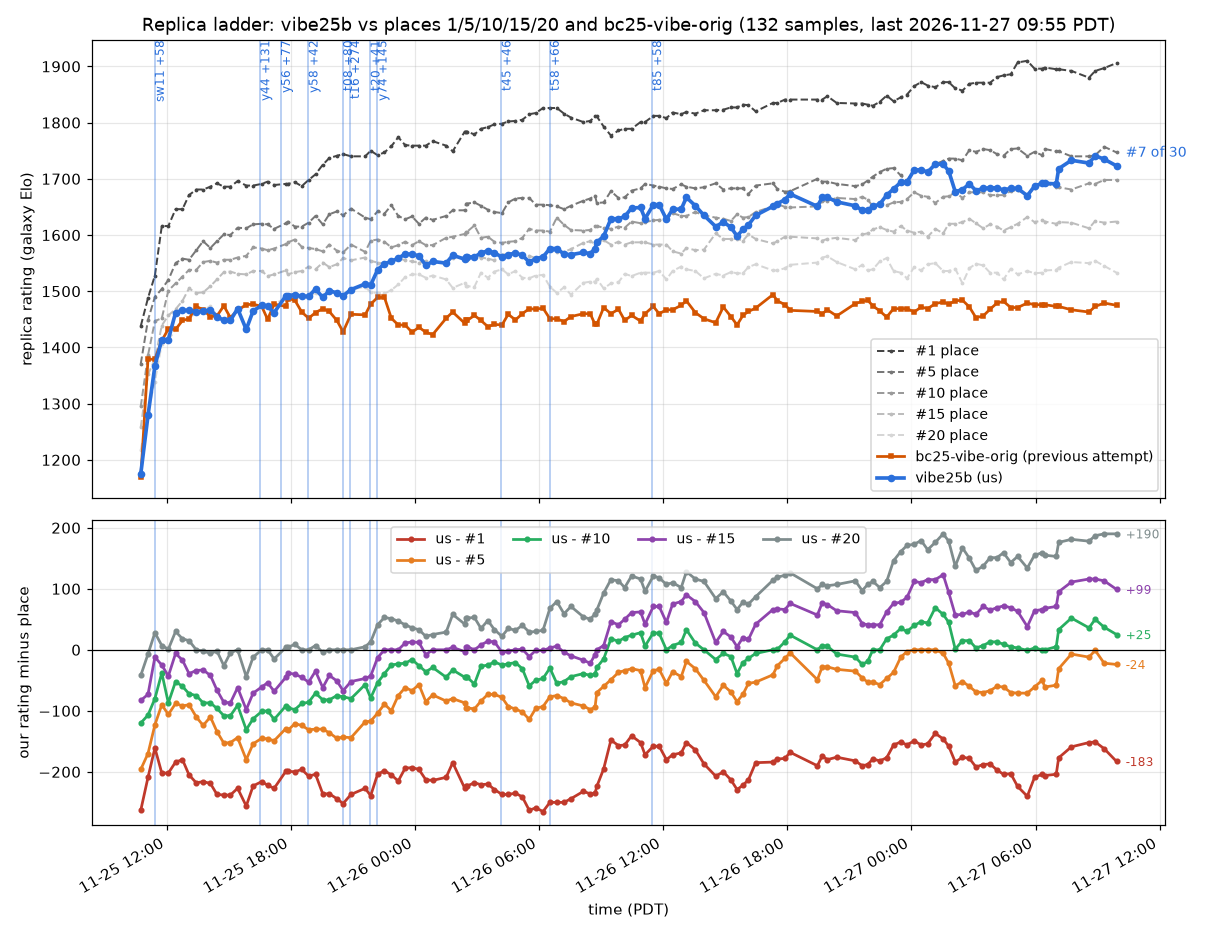
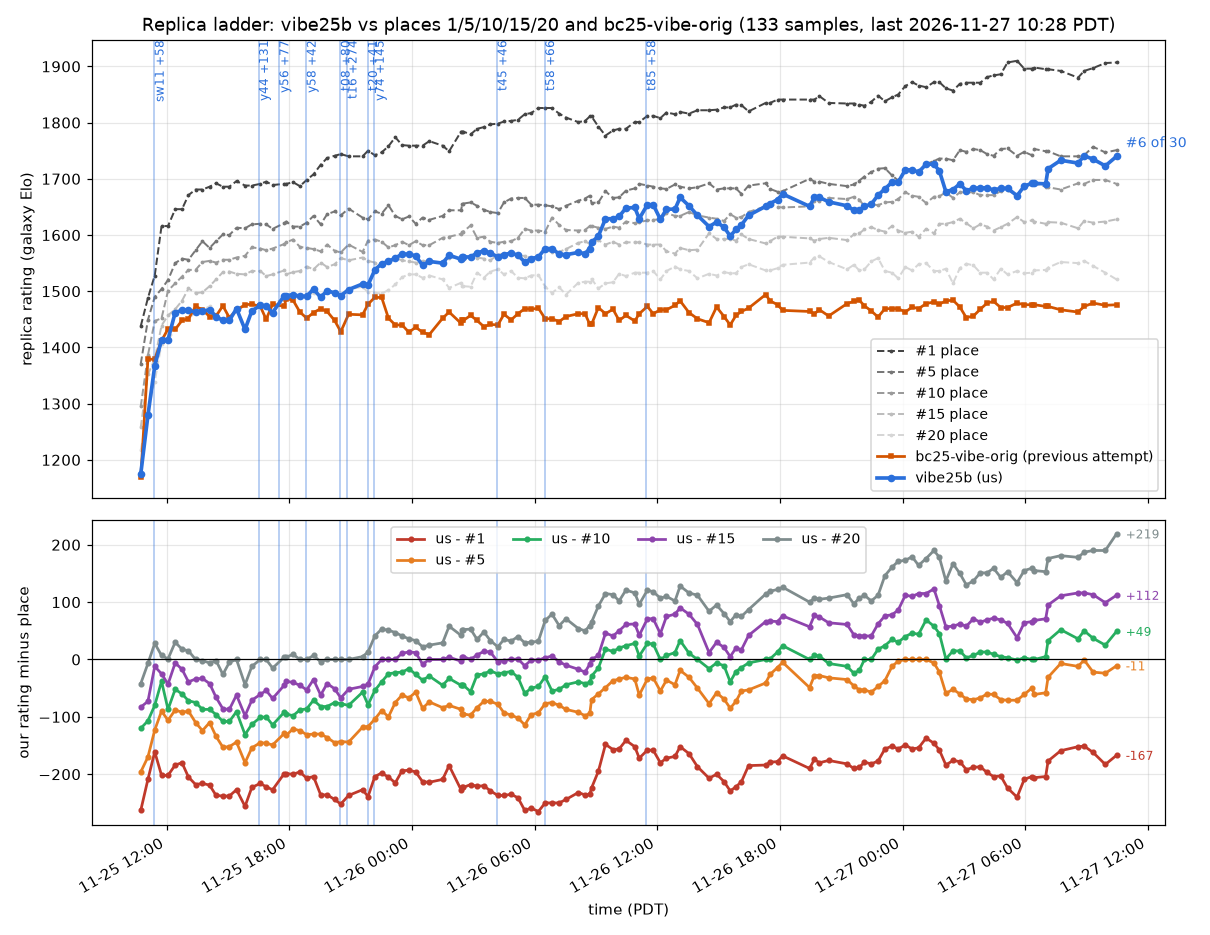
prod: replica sample 1740 at #6; refill candidates early
Claude-Session: https://claude.ai/code/session_01SzziPSCWtjsjju9cnThDf5

diff --git a/progress/local-elo.md b/progress/local-elo.md
@@ -1,55 +1,55 @@
 # Local tournament Elo
 
-Bradley-Terry ratings of our own bots in the local tournament (`tools/tourney.py`), all 154777 games in one fit as of 2026-11-27 10:19 PDT, so every point is on the same scale; earlier champions are shown at their current rating, and "Gain" is the rating over the champion it replaced. `tools/tourney.py rank` rewrites this table; `tools/tourney.py chart` also redraws the chart.
+Bradley-Terry ratings of our own bots in the local tournament (`tools/tourney.py`), all 155877 games in one fit as of 2026-11-27 10:33 PDT, so every point is on the same scale; earlier champions are shown at their current rating, and "Gain" is the rating over the champion it replaced. `tools/tourney.py rank` rewrites this table; `tools/tourney.py chart` also redraws the chart.
 
 ![local elo](local-elo.png)
 
 | Champion from (PDT) | Bot | Change on base | Submission | Rating +- SE | Gain | Games |
 |---|---|---|---:|---:|---:|---:|
-| 2026-11-25 08:28 | v01 | foundation bot |  | 165 +- 18 |  | 435 |
-| 2026-11-25 08:39 | v02 | nav wall-follow fix + bytecode guards on v01 | #6 | 230 +- 13 | +65 | 801 |
-| 2026-11-25 09:01 | y02 | paint-heavy tower mix + paint towers upgraded first on v02 | #7 | 289 +- 11 | +59 | 1080 |
-| 2026-11-25 09:49 | y06 | 3 opening soldiers instead of 2 on y02 | #35 | 310 +- 13 | +21 | 700 |
-| 2026-11-25 10:09 | sw06 | no moppers before r80; a third of spawns moppers after (field study 1) on y02 | #36 | 367 +- 12 | +79 | 863 |
-| 2026-11-25 11:04 | y11 | mid-game mix 3 moppers per 6 (soldier mopper splasher mopper soldier mopper) on sw06 | #37 | 400 +- 14 | +33 | 655 |
-| 2026-11-25 11:24 | sw11 | at most 1 helper soldier per ruin (more ruins claimed in parallel) on y11 | #38 | 458 +- 11 | +58 | 1159 |
-| 2026-11-25 12:24 | y17 | sw11 + moppers prefer enemies within r2 25 of our towers (sw12) on sw11 | #39 | 476 +- 12 | +18 | 871 |
-| 2026-11-25 12:44 | y19 | sw11 with soldiers joining an occupied ruin only when adjacent (r2<=2) on y17 | #40 | 511 +- 14 | +35 | 678 |
-| 2026-11-25 13:04 | y24 | y17 with mopper defence widened (DEFEND_R2 36 / bonus 80) on y19 | #41 | 546 +- 13 | +35 | 679 |
-| 2026-11-25 13:24 | y25 | y19 (adjacent-only ruin helping) + y17 tower-defending moppers on y24 | #42 | 555 +- 12 | +9 | 898 |
-| 2026-11-25 13:44 | sw16 | y25 + soldier siege: with no ruin and paint>=80 kite a known enemy tower within r2 64 on y25 | #43 | 580 +- 11 | +24 | 976 |
-| 2026-11-25 14:04 | sw17 | y28 (siege from 50 paint r2 100) + splasher siege (towers weigh 40; walk to known tower within r2 100 at paint>=100) on sw16 | #44 | 612 +- 10 | +33 | 1110 |
-| 2026-11-25 14:44 | y30 | y28 with soldier siege from 30 paint within r2 144 (no splasher siege) on sw17 | #45 | 629 +- 7 | +17 | 2377 |
-| 2026-11-25 16:30 | y44 | study 3 tactic 3 (enemy refill policy): return at 50% paint (soldier 100/splasher 100/mopper 40) + end-of-turn top-up from any adjacent ally tower on y30 | #46 | 760 +- 8 | +131 | 2250 |
-| 2026-11-25 17:30 | y56 | study 3 tactic 4 (tower churn): a drained L1 money tower with intact pattern and an ally adjacent disintegrates at >=2000 chips; adjacent robots re-complete it for a fresh 500 paint on y44 | #47 | 837 +- 10 | +77 | 1320 |
-| 2026-11-25 18:50 | y58 | study 3 tactic 2 (early soldiers paint patterns not coverage): exploring soldiers paint no coverage before r50 on y56 | #48 | 879 +- 11 | +42 | 997 |
-| 2026-11-25 19:30 | t04 | t02 (no coverage painting before r80) + t03 (units wait beside drained money towers and repair their pattern so churn fires; study 3 tactics 2 and 4) on y58 | #49 | 912 +- 11 | +33 | 1065 |
-| 2026-11-25 20:30 | t08 | study 4 2.2 (contested ruins): soldiers skip a ruin with enemy paint in its visible 5x5 (bad for 50 rounds) on t04 | #50 | 992 +- 13 | +80 | 775 |
-| 2026-11-25 20:50 | t16 | t12 (t08 + study 4 2.1 spawn freeze 8 rounds in 20 below 1000+cost) + study 4 2.4 money-first: builds money until 8 towers then paint while paint towers < n/5; paint first only if none (all towers known) on t08 | #51 | 1266 +- 12 | +274 | 1213 |
-| 2026-11-25 21:50 | t20 | study 4 2.3: splashers weight enemy towers 30 (was 12) in the splash score on t16 | #52 | 1308 +- 15 | +41 | 587 |
-| 2026-11-25 22:10 | y74 | unit audit (owner prompt #15): splash-grid bug fix (enemy tiles never scored) + moppers stop once enemy paint is in mop reach; built on t16 on t20 | #53 | 1452 +- 10 | +145 | 1255 |
-| 2026-11-25 23:10 | t25 | unit audit + top teams' unit mix (616 S / 662 X / 701 M): after r80 paint towers cycle soldier-splasher-mopper; money towers keep S M X M S M on y74 | #54 | 1488 +- 13 | +36 | 680 |
-| 2026-11-25 23:30 | t27 | top teams' splasher-heavy late mix pushed further: paint towers cycle soldier-splasher-splasher-mopper after r80 on t25 | #55 | 1511 +- 9 | +23 | 1554 |
-| 2026-11-26 00:30 | y95 | upgrade spare 1200 (was 800): chips stay for new towers longer on t27 | #56 | 1546 +- 9 | +35 | 1822 |
-| 2026-11-26 02:01 | t36 | late SRPs (study 4 2.6 / study 3 tactic 7): soldiers without a ruin build SRPs on the x%4==2 y%4==2 lattice from r100 with chips>=1000; splashers avoid repainting SRP secondary tiles on y95 | #57 | 1583 +- 11 | +37 | 977 |
-| 2026-11-26 02:50 | y110 | money towers upgrade only with 2500 chips beyond the cost+spare (was 1000): chips go to new towers and SRPs on t36 | #58 | 1614 +- 10 | +31 | 1260 |
-| 2026-11-26 03:30 | t42 | study 4 3.1 recovery: with every tower known and no money tower left the next ruin is a money tower on y110 | #59 | 1629 +- 10 | +15 | 1332 |
-| 2026-11-26 04:10 | t45 | study 3 tactic 1: after r40 towers spawn only with 1000 chips beyond the unit's cost (no 600-chip window) on t42 | #60 | 1675 +- 10 | +46 | 1226 |
-| 2026-11-26 04:50 | t47 | study 3 tactic 5: a mopper due in the cycle spawns even below the 1000 reserve when an enemy robot is within d2 20 of the tower on t45 | #61 | 1704 +- 7 | +29 | 2398 |
-| 2026-11-26 06:30 | t58 | study 5 2.3: a splasher that has not splashed for 8 rounds (while able to) explores instead of chasing the nearest non-ally tile on t47 | #62 | 1770 +- 11 | +66 | 1087 |
-| 2026-11-26 07:10 | t61 | study 5 2.1 (softened): money towers for builds 1-5; then one more paint tower per 4 towers on t58 | #63 | 1806 +- 11 | +36 | 938 |
-| 2026-11-26 07:30 | y155 | study 5 2.1 tuned: money towers for builds 1-6; then one more paint tower per 4 towers on t61 | #64 | 1838 +- 9 | +32 | 1615 |
-| 2026-11-26 08:27 | t70 | y155 + splashers weight enemy towers 30 (t68) + 2000+ chips makes the next tower a paint tower (y159) on y155 | #65 | 1865 +- 7 | +27 | 2530 |
-| 2026-11-26 09:47 | t74 | moppers weight enemy paint near ruins 40 (study 6 2.1c) on t70 | #66 | 1884 +- 8 | +19 | 2200 |
-| 2026-11-26 10:47 | y170 | soldiers make the next tower a paint tower at 1500+ chips (t63 tuning; was 2000) on t74 | #67 | 1880 +- 7 | -4 | 2823 |
-| 2026-11-26 11:27 | t85 | study 6 2.2 ruin denial from where the soldier stands: a soldier with no ruin paints empty tiles of a ruin the enemy is building; without walking to it on y170 | #68 | 1938 +- 7 | +58 | 2556 |
-| 2026-11-26 12:47 | t91 | study 7 2.5: moppers ignore ruins under enemy towers when weighting ruin paint on t85 | #69 | 1950 +- 5 | +12 | 5663 |
-| 2026-11-26 13:27 | y195 | study 7 2.1a: explore unseen tiles first; up to 16 random draws on t91 | #70 | 1963 +- 9 | +14 | 1349 |
-| 2026-11-26 14:12 | y197 | ruin denial stops at 2 of our tiles (tuning of study 6 2.2) on y195 | #71 | 1980 +- 7 | +16 | 2235 |
-| 2026-11-26 15:27 | y211 | study 7 2.1a tuned: up to 128 random draws for an unseen explore target (was 16) on y197 | #72 | 1983 +- 6 | +3 | 4141 |
-| 2026-11-26 17:47 | y221 | study 8 2.2 (paint the first tower's pattern on the way in; a second soldier on the first ruin) + explore timeout 90; first champion through the confirmation stage (owner #46) on y211 | #73 | 2018 +- 5 | +36 | 6990 |
-| 2026-11-26 19:34 | t111 | splashers attack enemy paint/money towers from a stand-off tile outside their range (study 8 2.4) on y221 | #74 | 2032 +- 4 | +13 | 7551 |
-| 2026-11-26 23:27 | t118 | study 9 2.1b: a soldier on a blocked pattern with no own mopper or splasher in view gives up after 5 turns (was 25); confirmed +71 +-29 in 153 fresh games on t111 | #75 | 2067 +- 5 | +35 | 7081 |
-| 2026-11-27 01:07 | t122 | study 9 2.4: paint-tower dry flags expire after 10 rounds (was 40) and a flagged tower in sight is re-sensed; confirmed +6 +-19 in 378 fresh games; +16 overall on t118 | #76 | 2081 +- 4 | +14 | 10204 |
-| 2026-11-27 06:10 | t135 | study 10 2.6d: a soldier with no other soldier in view skips the 25-paint pattern mark (the top teams never mark); confirmed +9 +-22 in 262 fresh games; +14 overall on t122 | #77 | 2077 +- 6 | -4 | 5817 |
-| 2026-11-27 08:28 | t140 | study 11 2.1: free single marks (rc.mark on the 5x5 outer ring) replace the 25-paint pattern mark; marks re-read beside the ruin; confirmed +40 +-23 in 251 fresh games; +30 overall on t135 | #78 | 2109 +- 7 | +32 | 3345 |
+| 2026-11-25 08:28 | v01 | foundation bot |  | 160 +- 18 |  | 435 |
+| 2026-11-25 08:39 | v02 | nav wall-follow fix + bytecode guards on v01 | #6 | 225 +- 13 | +65 | 801 |
+| 2026-11-25 09:01 | y02 | paint-heavy tower mix + paint towers upgraded first on v02 | #7 | 284 +- 11 | +59 | 1080 |
+| 2026-11-25 09:49 | y06 | 3 opening soldiers instead of 2 on y02 | #35 | 305 +- 13 | +21 | 700 |
+| 2026-11-25 10:09 | sw06 | no moppers before r80; a third of spawns moppers after (field study 1) on y02 | #36 | 363 +- 12 | +79 | 863 |
+| 2026-11-25 11:04 | y11 | mid-game mix 3 moppers per 6 (soldier mopper splasher mopper soldier mopper) on sw06 | #37 | 396 +- 14 | +33 | 655 |
+| 2026-11-25 11:24 | sw11 | at most 1 helper soldier per ruin (more ruins claimed in parallel) on y11 | #38 | 454 +- 11 | +58 | 1159 |
+| 2026-11-25 12:24 | y17 | sw11 + moppers prefer enemies within r2 25 of our towers (sw12) on sw11 | #39 | 472 +- 12 | +18 | 871 |
+| 2026-11-25 12:44 | y19 | sw11 with soldiers joining an occupied ruin only when adjacent (r2<=2) on y17 | #40 | 507 +- 14 | +35 | 678 |
+| 2026-11-25 13:04 | y24 | y17 with mopper defence widened (DEFEND_R2 36 / bonus 80) on y19 | #41 | 542 +- 13 | +35 | 679 |
+| 2026-11-25 13:24 | y25 | y19 (adjacent-only ruin helping) + y17 tower-defending moppers on y24 | #42 | 551 +- 12 | +9 | 898 |
+| 2026-11-25 13:44 | sw16 | y25 + soldier siege: with no ruin and paint>=80 kite a known enemy tower within r2 64 on y25 | #43 | 575 +- 11 | +24 | 976 |
+| 2026-11-25 14:04 | sw17 | y28 (siege from 50 paint r2 100) + splasher siege (towers weigh 40; walk to known tower within r2 100 at paint>=100) on sw16 | #44 | 608 +- 10 | +33 | 1110 |
+| 2026-11-25 14:44 | y30 | y28 with soldier siege from 30 paint within r2 144 (no splasher siege) on sw17 | #45 | 625 +- 7 | +17 | 2377 |
+| 2026-11-25 16:30 | y44 | study 3 tactic 3 (enemy refill policy): return at 50% paint (soldier 100/splasher 100/mopper 40) + end-of-turn top-up from any adjacent ally tower on y30 | #46 | 756 +- 8 | +131 | 2250 |
+| 2026-11-25 17:30 | y56 | study 3 tactic 4 (tower churn): a drained L1 money tower with intact pattern and an ally adjacent disintegrates at >=2000 chips; adjacent robots re-complete it for a fresh 500 paint on y44 | #47 | 833 +- 10 | +77 | 1320 |
+| 2026-11-25 18:50 | y58 | study 3 tactic 2 (early soldiers paint patterns not coverage): exploring soldiers paint no coverage before r50 on y56 | #48 | 875 +- 11 | +42 | 997 |
+| 2026-11-25 19:30 | t04 | t02 (no coverage painting before r80) + t03 (units wait beside drained money towers and repair their pattern so churn fires; study 3 tactics 2 and 4) on y58 | #49 | 907 +- 11 | +33 | 1065 |
+| 2026-11-25 20:30 | t08 | study 4 2.2 (contested ruins): soldiers skip a ruin with enemy paint in its visible 5x5 (bad for 50 rounds) on t04 | #50 | 988 +- 13 | +80 | 775 |
+| 2026-11-25 20:50 | t16 | t12 (t08 + study 4 2.1 spawn freeze 8 rounds in 20 below 1000+cost) + study 4 2.4 money-first: builds money until 8 towers then paint while paint towers < n/5; paint first only if none (all towers known) on t08 | #51 | 1262 +- 12 | +274 | 1213 |
+| 2026-11-25 21:50 | t20 | study 4 2.3: splashers weight enemy towers 30 (was 12) in the splash score on t16 | #52 | 1303 +- 15 | +41 | 587 |
+| 2026-11-25 22:10 | y74 | unit audit (owner prompt #15): splash-grid bug fix (enemy tiles never scored) + moppers stop once enemy paint is in mop reach; built on t16 on t20 | #53 | 1448 +- 10 | +145 | 1255 |
+| 2026-11-25 23:10 | t25 | unit audit + top teams' unit mix (616 S / 662 X / 701 M): after r80 paint towers cycle soldier-splasher-mopper; money towers keep S M X M S M on y74 | #54 | 1484 +- 13 | +36 | 680 |
+| 2026-11-25 23:30 | t27 | top teams' splasher-heavy late mix pushed further: paint towers cycle soldier-splasher-splasher-mopper after r80 on t25 | #55 | 1506 +- 9 | +23 | 1554 |
+| 2026-11-26 00:30 | y95 | upgrade spare 1200 (was 800): chips stay for new towers longer on t27 | #56 | 1541 +- 9 | +35 | 1822 |
+| 2026-11-26 02:01 | t36 | late SRPs (study 4 2.6 / study 3 tactic 7): soldiers without a ruin build SRPs on the x%4==2 y%4==2 lattice from r100 with chips>=1000; splashers avoid repainting SRP secondary tiles on y95 | #57 | 1579 +- 11 | +37 | 977 |
+| 2026-11-26 02:50 | y110 | money towers upgrade only with 2500 chips beyond the cost+spare (was 1000): chips go to new towers and SRPs on t36 | #58 | 1610 +- 10 | +31 | 1260 |
+| 2026-11-26 03:30 | t42 | study 4 3.1 recovery: with every tower known and no money tower left the next ruin is a money tower on y110 | #59 | 1624 +- 10 | +15 | 1332 |
+| 2026-11-26 04:10 | t45 | study 3 tactic 1: after r40 towers spawn only with 1000 chips beyond the unit's cost (no 600-chip window) on t42 | #60 | 1671 +- 10 | +46 | 1226 |
+| 2026-11-26 04:50 | t47 | study 3 tactic 5: a mopper due in the cycle spawns even below the 1000 reserve when an enemy robot is within d2 20 of the tower on t45 | #61 | 1700 +- 7 | +29 | 2398 |
+| 2026-11-26 06:30 | t58 | study 5 2.3: a splasher that has not splashed for 8 rounds (while able to) explores instead of chasing the nearest non-ally tile on t47 | #62 | 1765 +- 11 | +66 | 1087 |
+| 2026-11-26 07:10 | t61 | study 5 2.1 (softened): money towers for builds 1-5; then one more paint tower per 4 towers on t58 | #63 | 1802 +- 11 | +36 | 938 |
+| 2026-11-26 07:30 | y155 | study 5 2.1 tuned: money towers for builds 1-6; then one more paint tower per 4 towers on t61 | #64 | 1833 +- 9 | +32 | 1615 |
+| 2026-11-26 08:27 | t70 | y155 + splashers weight enemy towers 30 (t68) + 2000+ chips makes the next tower a paint tower (y159) on y155 | #65 | 1860 +- 7 | +27 | 2530 |
+| 2026-11-26 09:47 | t74 | moppers weight enemy paint near ruins 40 (study 6 2.1c) on t70 | #66 | 1879 +- 8 | +19 | 2200 |
+| 2026-11-26 10:47 | y170 | soldiers make the next tower a paint tower at 1500+ chips (t63 tuning; was 2000) on t74 | #67 | 1875 +- 7 | -4 | 2823 |
+| 2026-11-26 11:27 | t85 | study 6 2.2 ruin denial from where the soldier stands: a soldier with no ruin paints empty tiles of a ruin the enemy is building; without walking to it on y170 | #68 | 1933 +- 7 | +58 | 2556 |
+| 2026-11-26 12:47 | t91 | study 7 2.5: moppers ignore ruins under enemy towers when weighting ruin paint on t85 | #69 | 1945 +- 5 | +12 | 5663 |
+| 2026-11-26 13:27 | y195 | study 7 2.1a: explore unseen tiles first; up to 16 random draws on t91 | #70 | 1959 +- 9 | +14 | 1349 |
+| 2026-11-26 14:12 | y197 | ruin denial stops at 2 of our tiles (tuning of study 6 2.2) on y195 | #71 | 1975 +- 7 | +16 | 2235 |
+| 2026-11-26 15:27 | y211 | study 7 2.1a tuned: up to 128 random draws for an unseen explore target (was 16) on y197 | #72 | 1978 +- 6 | +3 | 4141 |
+| 2026-11-26 17:47 | y221 | study 8 2.2 (paint the first tower's pattern on the way in; a second soldier on the first ruin) + explore timeout 90; first champion through the confirmation stage (owner #46) on y211 | #73 | 2014 +- 5 | +36 | 6990 |
+| 2026-11-26 19:34 | t111 | splashers attack enemy paint/money towers from a stand-off tile outside their range (study 8 2.4) on y221 | #74 | 2027 +- 4 | +13 | 7551 |
+| 2026-11-26 23:27 | t118 | study 9 2.1b: a soldier on a blocked pattern with no own mopper or splasher in view gives up after 5 turns (was 25); confirmed +71 +-29 in 153 fresh games on t111 | #75 | 2062 +- 5 | +35 | 7286 |
+| 2026-11-27 01:07 | t122 | study 9 2.4: paint-tower dry flags expire after 10 rounds (was 40) and a flagged tower in sight is re-sensed; confirmed +6 +-19 in 378 fresh games; +16 overall on t118 | #76 | 2077 +- 4 | +15 | 10409 |
+| 2026-11-27 06:10 | t135 | study 10 2.6d: a soldier with no other soldier in view skips the 25-paint pattern mark (the top teams never mark); confirmed +9 +-22 in 262 fresh games; +14 overall on t122 | #77 | 2073 +- 6 | -5 | 5817 |
+| 2026-11-27 08:28 | t140 | study 11 2.1: free single marks (rc.mark on the 5x5 outer ring) replace the 25-paint pattern mark; marks re-read beside the ruin; confirmed +40 +-23 in 251 fresh games; +30 overall on t135 | #78 | 2104 +- 6 | +31 | 3763 |
